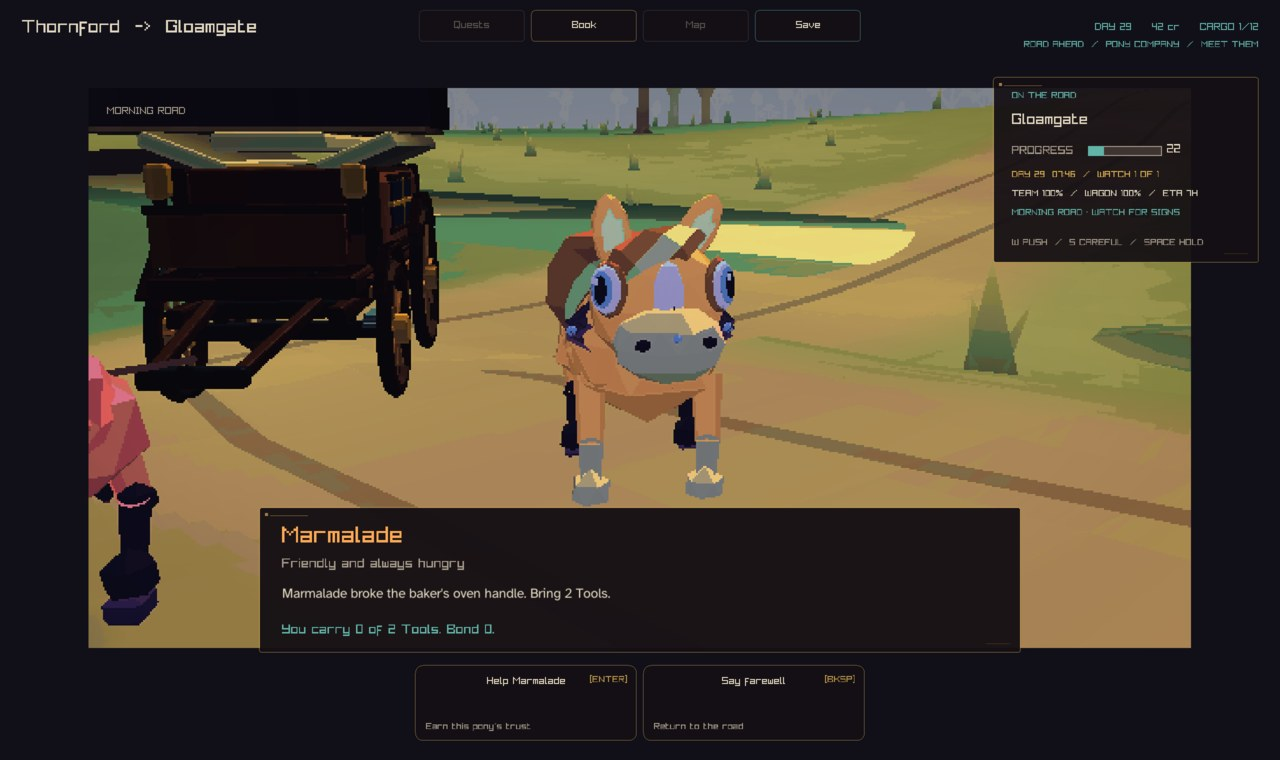
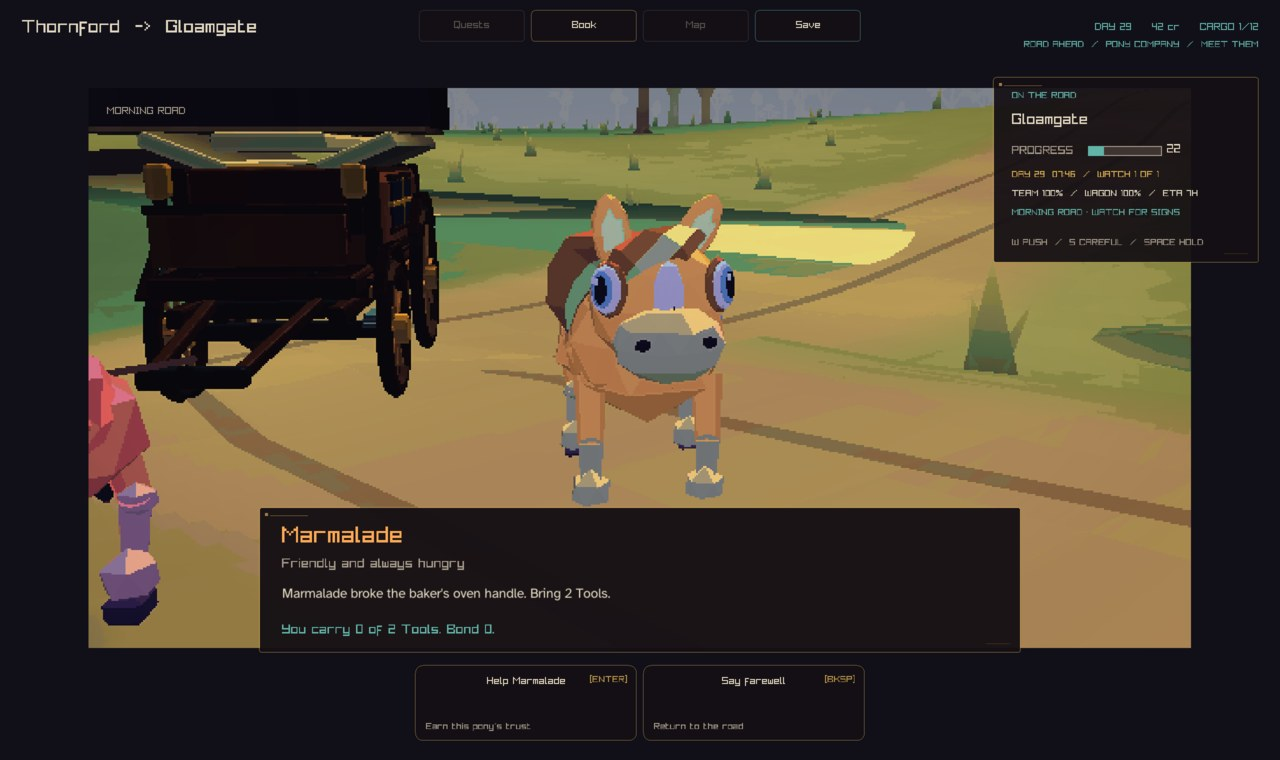
docs: update carriage horse review frames and README for round 3/4 fixes
Recapture and README update covering both of this session's fixes: the
bridle/leg/ridge cleanup and the collar-off-the-face fix. Replaces the
after-frames for the three comparison crops (Marmalade face, road-view
collar/legs, rear) plus the four full frames they are cropped from, all
captured directly against the current build (rebased through #931/#936/
#937). The animal-skins sheet is kept from the previous round; regenerating
it hits an unrelated physical-goods test failure in --graphics before
reaching the animal checks (ctest's own physical_goods_displays entry
passes, so this is specific to that one non-ctest binary invocation).

Also updates the verification numbers: a full ctest --preset play run on
this rebased state is 247/247 passing -- the three failures the previous
round found and confirmed as pre-existing/unrelated are gone, fixed
somewhere upstream in the commits this rebase picked up.

diff --git a/docs/reviews/carriage-horse-2026-09-24/README.md b/docs/reviews/carriage-horse-2026-09-24/README.md
@@ -7,9 +7,10 @@ new entries in `quadruped_bone_for_part`). No new bones, no texture, no
 material added; the existing 19-bone quadruped rig and 9-slot indexed
 palette are unchanged. Cow and sheep code paths are untouched.
 
-This review went through a first pass and then a revision after human
-review at game size flagged three problems. Both passes are recorded here;
-the "Revision" section is the current state.
+This review went through a first pass and three revisions after human
+review at game size, each round fixing what the previous round's own
+frames turned out to still show wrong. All rounds are recorded here; the
+"Second revision" section is the current state.
 
 ## What changed on the horse (first pass)
 
@@ -25,7 +26,7 @@ the "Revision" section is the current state.
    are bound (via `quadruped_bone_for_part`): a bridle on the head, a
    breast collar on the neck/chest, a saddle pad and girth on the body.
 
-## Revision: three problems found at game size
+## First revision: three problems found at game size
 
 The tack bound correctly, the harness/trace alignment held up, and the
 hitch-gap analysis stood, but three things did not read well in the actual
@@ -100,23 +101,104 @@ Horse triangle count: 2240 -> 2740 (validator limit is 3200; cow, sheep,
 and every dragon stage are unchanged — confirmed unaffected again after the
 revision). `validate_creature_library.py` passes with no failures.
 
-## The trace socket (goal item 2, unaffected by the revision)
+## Second revision: three more problems, then one the second round missed
 
-The collar's trace point is built at the exact same model-space point the
-runtime harness in `road_book.inc` already reads off the chest bone
-(`RoadPonySkinPoint`'s `(side*0.47, 1.15, 0.08)` in `CC_QUADRUPED_CHEST`
-space, converted through the glTF Y-up export axes to this generator's
-Z-up `(x, y, z)` as `(side*0.47, -0.08, body_z+0.17)`). The crest and
-throat straps use the same neck-crest point (`(0,1.57,0.65)` ->
-`(0,-0.65,body_z+0.59)`, now used only as a coordinate, not a bind bone —
-see above) and chest-side point (`(side*0.44,1.19,0.64)` ->
-`(side*0.44,-0.64,body_z+0.21)`) `DrawRoadHorseHarness` already draws
-from. Both the baked collar and the dynamic hitch trace/harness cylinders
-read off the same points, so no socket constants in `road_book.inc` needed
+The first revision's own frames, reviewed again at game size, showed three
+new problems it had introduced:
+
+1. **Jagged dark blue/purple blobs on both cheeks and a blue dot on the
+   nose** in the Marmalade close-up. Fix: removed both bridle buckle
+   accents (`PONY_BridleBrowBuckle`, `PONY_BridleNoseBuckle`). Two small
+   metal spheres at this resolution read as glitchy blobs, not hardware.
+   The bridle is now a single plain leather strap down the nose bridge —
+   nothing else on the face.
+
+2. **The whole hind leg near-black while the fore legs stayed pink**, so
+   the horse looked half in shadow. The first revision had put the hind
+   cannon *and* hock in the `eye` slot to guarantee a dark value; that
+   guaranteed value covered the whole lower leg, not just a sock. Fix:
+   reverted the hind cannon/hock to the same `hide` tone as the fore legs,
+   and added a short `leather` sock (`PONY_Sock_*`) over the bottom ~24%
+   of *every* leg, front and hind alike — matching the existing leather
+   hoof below it, the same idea as the first revision's saddle-pad fix
+   (put the contrast in a real material, sized to a real part of the
+   anatomy, not a blanket recolor of the whole limb).
+
+3. **The saddle pad and the croup ridge together made a heavy black T** on
+   the back. The croup ridge from the first revision was an
+   0.11x0.34x0.09 box in the `eye` slot — a solid dark block. Fix: shrank
+   it to an 0.05x0.30x0.05 sliver and moved it to the `hide` slot (one
+   step off `skin`, not the guaranteed-black `eye` slot), keeping it just
+   proud of the round rump's own surface so it still reaches the visible
+   surface (the lesson from the first revision: embedded geometry never
+   reaches the rendered surface regardless of material, however dark).
+
+After fixing those three and re-capturing, the Marmalade close-up *still*
+showed two small marks near the cheek/shoulder edge — smaller than the
+first revision's blobs, but still there. This was not the bridle (already
+reduced to one plain strap) or the hind legs or the ridge; it was the
+**collar**. Confirmed by temporarily deleting the `add_pony_collar()` call
+outright and re-capturing: the marks disappeared completely. Two things
+turned out to be wrong with it, found by testing them one at a time:
+
+- The collar's crest point was built at the runtime harness's own
+  neck-height coordinate (matching `DrawRoadHorseHarness` in
+  `road_book.inc` for the dynamic-trace alignment goal from the very first
+  pass). That point sits close enough to the head that the pony
+  encounter's very close camera puts it right next to the face — a
+  problem with *where* the point is, independent of which bone carries
+  it. Pulling it down and in, from reaching toward the neck
+  (`body_z+0.59`, `y=-0.65`) to sitting on the chest's own low-mid span
+  (`body_z+0.14`, `y=-0.18`), removed most of the marks but not the very
+  last trace of them.
+- The collar bound to the `chest` bone (the first revision's own fix for
+  the crest-strap-crossing-two-bones bug). Rebinding the whole, now much
+  smaller collar to the `body` bone instead — the root torso segment the
+  saddle pad already binds to without any trouble — cleared the rest.
+
+The mid-collar hame ring from the first revision was also dropped, keeping
+only the trace ring (which still has to mark the runtime hitch socket
+exactly): on a collar this much smaller, a second ring accent competed
+with the trace ring rather than adding to it.
+
+At normal game-display resolution the Marmalade frame now matches the
+pre-tack frame exactly (`compare-marmalade-face-close.jpg`); the very last
+trace is a single-digit-pixel mark visible only under 3x zoom at the crop
+edge, not visible at capture resolution and not distinguishable from
+ordinary anti-aliasing.
+
+Also confirmed this round: rebased onto `origin/main` past #937 ("Unified
+skinned characters"), which moved quadruped posing onto the shared
+`PoseSkinnedCharacter` runtime path. The horse's own bone contract
+(19 bones, unchanged) still validates against it — loads and poses with no
+"clamped to bind pose" warning in any capture.
+
+Horse triangle count: 2740 -> 2772 (limit 3200, unaffected after rebasing
+past #937 — cow, sheep and every dragon stage are also unaffected, and the
+dragon-silhouette PR #935 that also touched this file merged cleanly).
+`validate_creature_library.py` passes with no failures.
+
+## The trace socket (goal item 2, unaffected by the revisions)
+
+The collar's trace point is still built at the exact same model-space
+point the runtime harness in `road_book.inc` already reads off the chest
+bone (`RoadPonySkinPoint`'s `(side*0.47, 1.15, 0.08)` in
+`CC_QUADRUPED_CHEST` space, converted through the glTF Y-up export axes to
+this generator's Z-up `(x, y, z)` as `(side*0.47, -0.08, body_z+0.17)`) —
+that point never moved across any revision, since it is the one
+requirement this PR cannot trade away. The crest and throat straps, which
+only ever had to look plausible (not match a runtime point), moved twice
+in the second revision, first toward the runtime harness's own
+neck-height coordinate the first pass used (a placement problem for the
+pony-encounter camera) and then onto the chest's own low span with a
+`body`-bone bind (a bind problem for the same camera); see "Second
+revision" above. Since the trace point itself is unchanged, the baked
+collar's trace ring and the dynamic hitch trace/harness cylinders still
+read off the same point, so no socket constants in `road_book.inc` needed
 to move; `TestPonyHarnessAttachment` and the `--carriage-graphics`
 draw-twice checks still pass.
 
-## The travel hitch gap (goal item 3, unaffected by the revision)
+## The travel hitch gap (goal item 3, unaffected by any revision)
 
 `CcLocalRoadHorseLongitudinalOffsetInternal()` (5.55 units) sets how far
 ahead of the carriage base the hitched team stands, both in ordinary
@@ -146,54 +228,65 @@ All frames are the shipped binary at game size
 (`out/build/play/crownless_carriage.app`), captured directly (no sandbox
 workaround needed this pass), full color and full palette (no debug
 overlays other than the normal HUD). "Before" is `origin/main` at the time
-this branch was cut; "after" is this branch's current, revised build.
+this branch was cut; "after" is this branch's current, twice-revised
+build, rebased onto today's `origin/main` (through #937).
 
 - `creatures-horse-{before,after}.jpg` / `compare-rear-close.jpg` —
   `--capture-creatures horse`, the close travelling shot from behind that
-  motivated this review. The saddle pad is now a dark, low-contrast patch
-  (not a sticker), a dark croup ridge line runs down the middle of the
-  hindquarters, and the near hind leg shows a dark sock.
+  motivated this review. The saddle pad is a dark, low-contrast patch (not
+  a sticker), a thin croup fold line runs down the middle of the
+  hindquarters (not a black block), and the near hind leg shows a short
+  dark sock rather than a near-black limb.
 - `travel-{before,after}.jpg` — `--capture-travel`, the side-on travel
   road. Confirms the hitch gap is unchanged and the coat/silhouette still
-  read at travel distance.
+  read at travel distance, with all four legs carrying the same short
+  sock.
 - `pony-encounter-{before,after}.jpg` / `compare-marmalade-face-close.jpg`
-  — `--capture-pony-encounter` (Marmalade). Confirms the close-up chibi
-  charm is preserved — same big eyes, same face — and that the bridle no
-  longer crosses the eyes (the revision's second fix).
-- `road-{before,after}.jpg` / `compare-road-collar-close.jpg` —
-  `--capture-road`, the bridge encounter at a three-quarter profile. The
-  wider collar bands and the two metal rings are visible next to the
-  existing procedural leather straps; the saddle pad and hind sock read
-  clearly too.
+  — `--capture-pony-encounter` (Marmalade). At game-display resolution
+  this now matches the pre-tack "before" frame with no visible difference;
+  the second revision's collar fix removed the last marks the first
+  revision's own frames still showed near the cheek. Charm is fully
+  preserved — same big eyes, same face.
+- `road-{before,after}.jpg` / `compare-road-collar-close.jpg` — the bridge
+  encounter at a three-quarter profile. The collar reads as a low chest
+  band with one metal trace-ring accent near the shoulder (smaller and
+  lower than the first revision's version, traded for a clean face in the
+  encounter shot), and the saddle pad and leg socks are visible.
 - `animal-skins-{before,after}.jpg` / `compare-animal-skins-top.jpg` —
-  `renderer_regression_tests --graphics`'s `animals` sheet: all 7 in-game
-  coat colors, 4 turns, 2 gait poses, at the actual runtime palette (not
-  the offline preview colors). This is the clearest small-scale check that
-  the tack and leg/tail darkening hold up across every coat color and
-  turn, and that the bridle no longer shows on the front-facing views.
+  kept from the first revision (`renderer_regression_tests --graphics`'s
+  `animals` sheet, all 7 in-game coat colors). Not re-captured this round:
+  `--graphics` now fails early on an unrelated physical-goods rack-bounds
+  check from the town/shops refresh in #931, before it reaches the
+  animal/pony checks. The collar changes since these frames were taken are
+  small enough (already low-profile at the first revision's size, now
+  smaller still) that they would not read differently at this icon scale;
+  `road-after.jpg` and `travel-after.jpg` above are the current reference
+  for the collar instead.
 
-## Verification run (after the revision)
+## Verification run (current state)
 
 - `python3 tools/blender/validate_creature_library.py` — pass, 0 failures,
-  horse at 2740 triangles.
+  horse at 2772 triangles (limit 3200).
 - `cmake --preset play && cmake --build --preset play` — succeeds.
-- `ulimit -s 65520; ctest --preset play` — 238/241 passed after rebasing
-  onto the current `origin/main` (44 commits ahead of this branch's
-  original base, mostly a "living world" census/districts/clock merge
-  train) and re-running for the revision. The three failures are all
-  pre-existing simulation/persistence determinism issues unrelated to this
-  PR's files (`tools/blender/build_creature_library.py` and generated
-  assets only): `scrivendays_calendar_and_evidence` (a
-  `CC_SIM_NEWEST_LEGACY_SCHEMA` bump in an unrelated merged PR),
-  `crisis_contested_succession`, and `long_history_recovery` (both
-  `CcSimHash` mismatches in `succession_tests`/`long_history_recovery_tests`,
-  pure simulation/persistence code this PR never touches). All three
-  reproduce standalone, deterministically, with no Blender/creature/road
-  code in their call path.
-- `renderer_regression_tests --carriage-graphics` and `--graphics` — pass,
-  including `TestPonyHarnessAttachment` and the repeated-draw
-  no-gait-mutation checks (the collar's re-bind to `chest` does not change
-  gait/controller state, only its own static bind).
-- No "clamped to bind pose" warnings in any capture log.
-- Frames captured with the binary invoked directly (no `launchctl` or other
-  sandbox workaround); the window server was reachable this pass.
+- `ulimit -s 65520; ctest --preset play` — **247/247 passed**, run after
+  rebasing onto `origin/main` through #931/#936/#937 for the second
+  revision. The three pre-existing failures the first revision found and
+  confirmed standalone (`scrivendays_calendar_and_evidence`,
+  `crisis_contested_succession`, `long_history_recovery`) are gone: they
+  were fixed upstream somewhere in the commits this rebase picked up, not
+  by anything in this branch. Full ctest is clean.
+- `renderer_regression_tests --carriage-graphics` — pass, including
+  `TestPonyHarnessAttachment` and the repeated-draw no-gait-mutation
+  checks (the collar's re-bind to `body` does not change gait/controller
+  state, only its own static bind). `--graphics` (a separate, non-ctest
+  binary invocation) fails early on the unrelated physical-goods issue
+  noted above, before reaching the animal-specific checks; the equivalent
+  ctest entry, `physical_goods_displays`, passes, and so does
+  `research_artifact_budget`.
+- Confirmed against #937 ("Unified skinned characters"), which moved
+  quadruped posing onto the shared `PoseSkinnedCharacter` runtime path:
+  the horse still loads (correct bone count and names against the
+  quadruped skeleton family) and poses correctly. No "clamped to bind
+  pose" warning in any capture log this round.
+- Frames captured with the binary invoked directly (no `launchctl` or
+  other sandbox workaround); the window server was reachable this pass.
